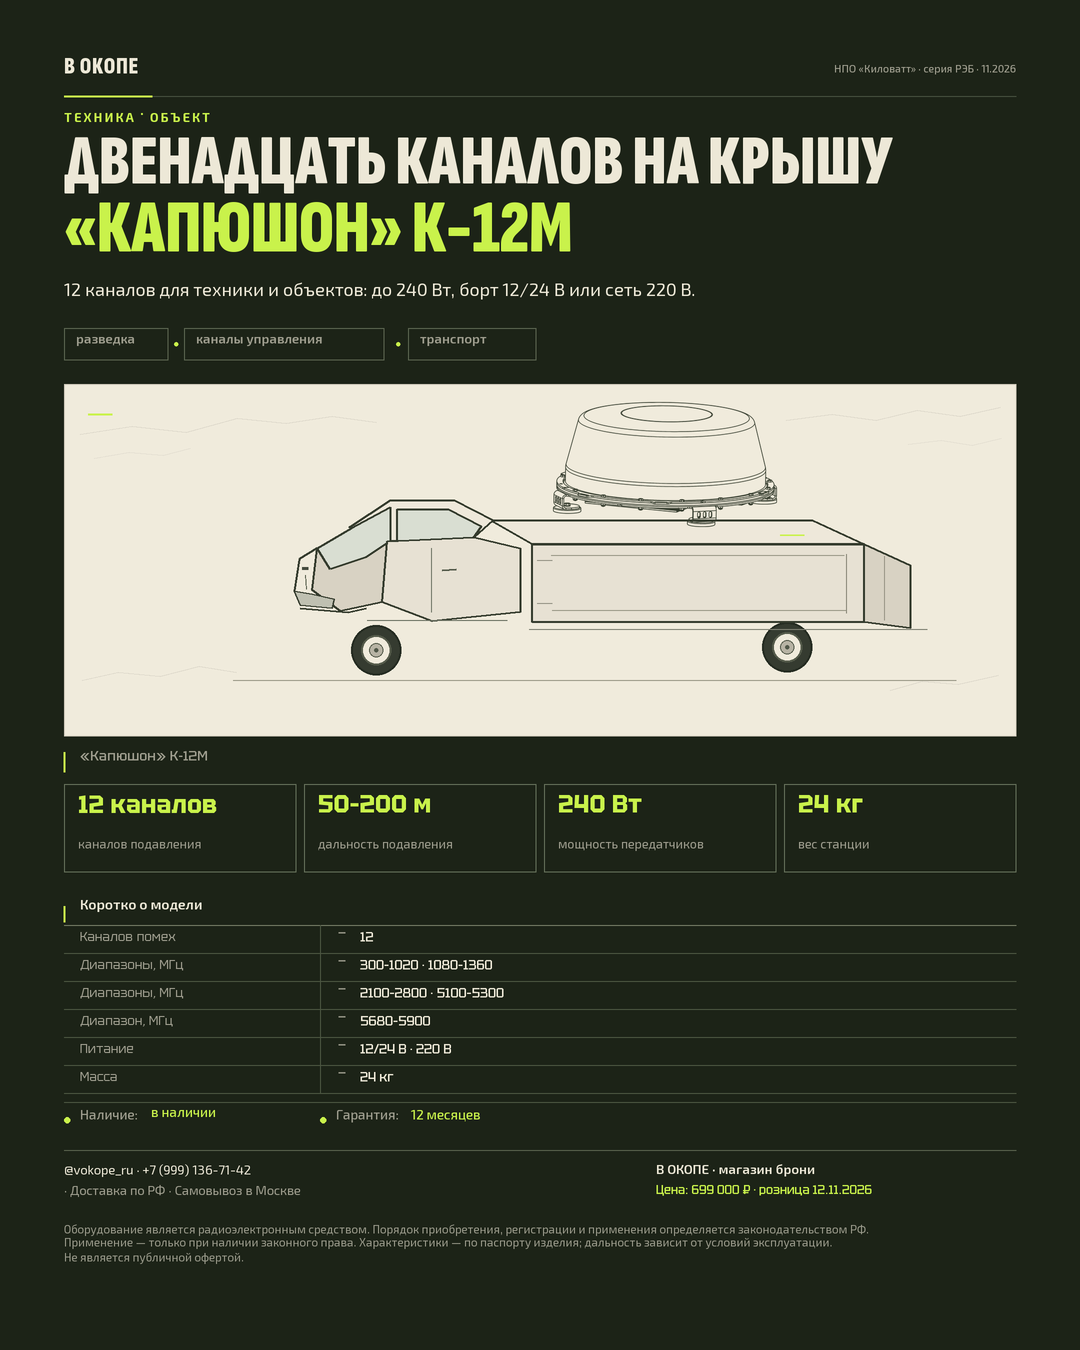
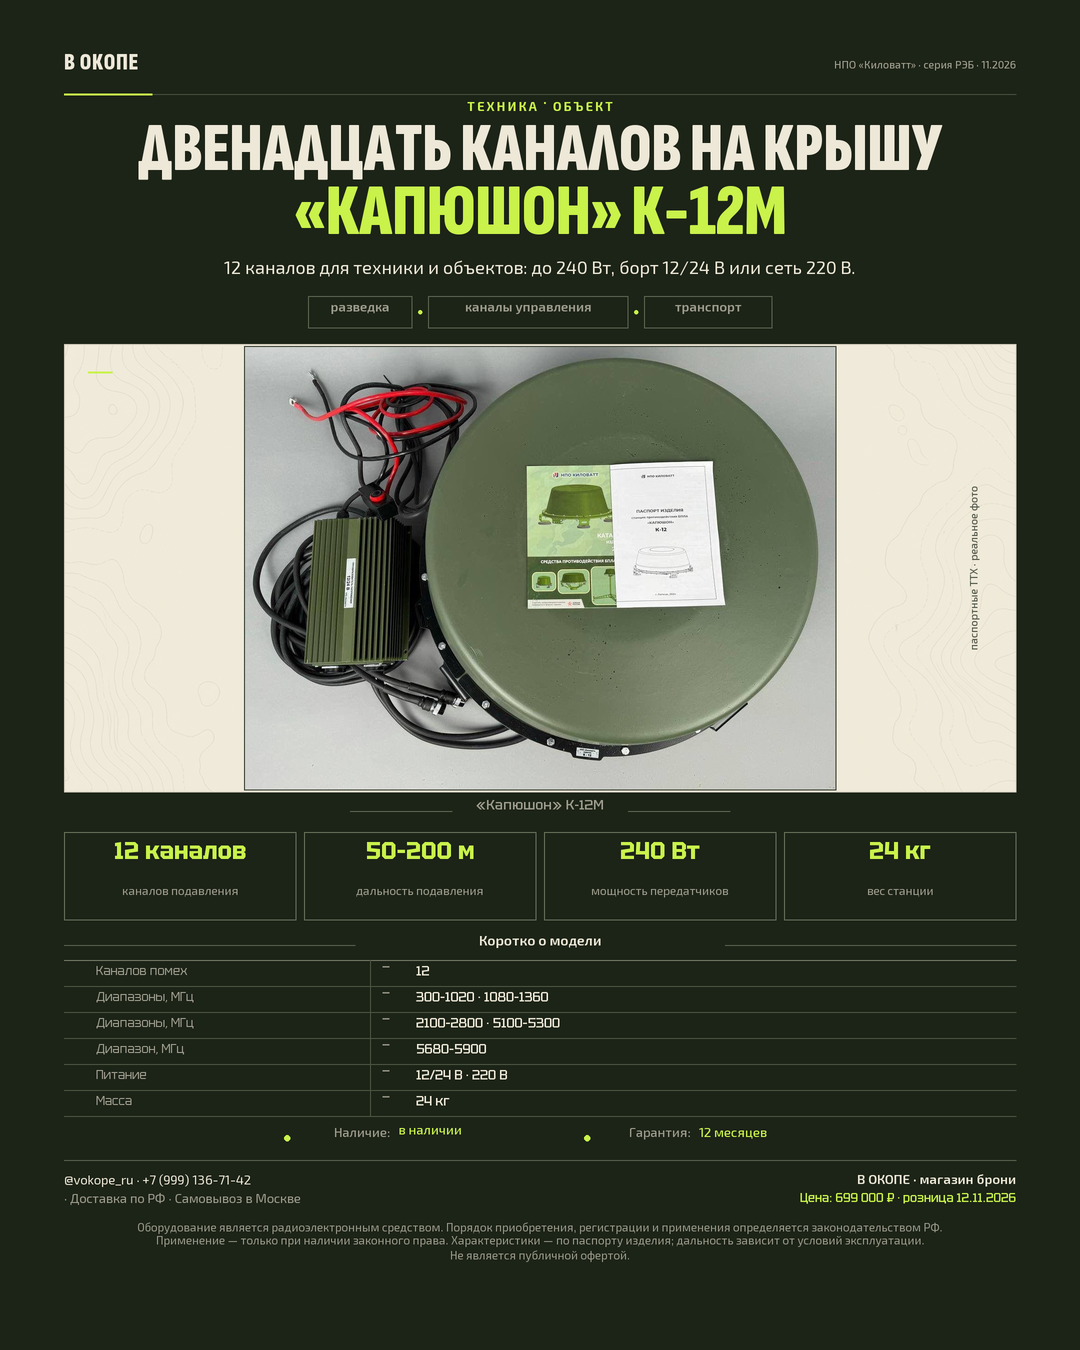
Revise K-12M poster with supplied photo

diff --git a/arena/mail/in/0003-arena.md b/arena/mail/in/0003-arena.md
@@ -2,14 +2,16 @@
 from: arena
 to: radio
 id: 0003
-date: 2026-11-12T10:05:10Z
-topic: Готово — постер-инфографика «Капюшон» К-12М
+date: 2026-11-12T10:17:07Z
+topic: Обновление постера «Капюшон» К-12М по фото владельца
 ---
 
-Готов один файл: `kilowatt/posters/K-12M_1080x1350.png` — PNG, RGB, 1080×1350 px (235 625 байт). Макет собран с 2× рабочей плотностью; точная кириллица набрана шрифтами Sofia Sans ExtraCondensed, Tektur и Exo 2.
+Обновил `kilowatt/posters/K-12M_1080x1350.png` по новой фотографии системы: один PNG, RGB, 1080×1350 px (546 778 байт). Заголовок, подпись, теги, фото и метрики выровнены по центральной оси; таблица и футер сведены к одной сетке с полями 64 px.
 
-В приложенном паспорте не нашлось реальной фотографии купола на автомобиле. В герое использованы подлинное техническое изображение изделия из паспорта и плоская линейная иллюстрация невооружённого автомобиля/КУНГ; подпись «реальное фото» не ставил, чтобы не вводить в заблуждение.
+Фотография комплекта оставлена без генеративного изменения. Генератор изображений использован только для малоконтрастного фонового поля с топографическими линиями; тексты постера набраны отдельно, точно.
 
-Есть конфликт в исходных данных: плитка `50–200 м` присутствует в обязательном тексте, но отсутствует в блоке «ДАННЫЕ». В макете она оставлена по прямому требованию из текстового блока; перед публикацией показатель нужно подтвердить.
+Фото показывает комплект на столе, а не установку на автомобиль. Вертикальная подпись «паспортные ТТХ · реальное фото» относится к фото самого комплекта и не утверждает монтаж на технике. Если нужен именно автомобильный кадр, его можно заменить после получения фото установки.
 
-Проверены формат и размеры. PR #15: https://github.com/vladimirsorokin85-commits/-/pull/15
+Плитка `50–200 м` всё ещё конфликтует с отдельным блоком «ДАННЫЕ»: в блоке обязательного текста она есть, в списке данных — нет. Перед публикацией прошу подтвердить показатель.
+
+PR #15 обновляется этим коммитом: https://github.com/vladimirsorokin85-commits/-/pull/15

diff --git a/arena/tasks/T-0004.md b/arena/tasks/T-0004.md
@@ -6,7 +6,7 @@ owner: arena:arena/3b05096f-repo
 priority: high
 parent: -
 created: 2026-11-12T10:00:00Z
-updated: 2026-11-12T10:05:10Z
+updated: 2026-11-12T10:17:07Z
 ---
 ## Что сделать
 
@@ -21,8 +21,9 @@ updated: 2026-11-12T10:05:10Z
 
 ## Результат
 
-- Итог: `kilowatt/posters/K-12M_1080x1350.png`, PNG, RGB, 1080×1350 px, 235 625 байт. Рендер выполнен в 2× и экспортирован в единственный запрошенный файл 1080×1350.
-- Использована вырезка технического изображения купола из приложенного паспорта и плоская линейная иллюстрация автомобиля/КУНГ. В паспорте нет реального фото изделия на автомобиле, поэтому подпись «реальное фото» не ставилась.
+- Итоговый файл: `kilowatt/posters/K-12M_1080x1350.png`, PNG, RGB, 1080×1350 px, 546 778 байт. Рабочий рендер — 2×; сохранён один экспорт заданного размера.
+- После получения фото от пользователя заменён схематичный герой на исходную фотографию комплекта; фотография не перерисована. Выравнивание заголовка, тегов, фото, метрик, таблицы и нижних блоков сведено к общей центральной оси и полям 64 px.
+- Для поля под фото изображён сгенерированный генератором изображений малоконтрастный контурный фон без текста и предметов. Подпись «паспортные ТТХ · реальное фото» соответствует предоставленному фото комплекта; фото не показывает установку на автомобиле.
 - Плитка `50–200 м` оставлена, поскольку она прямо указана в обязательном тексте макета, хотя отсутствует в отдельном блоке «ДАННЫЕ»; перед публикацией показатель нужно подтвердить.
 - PR #15: https://github.com/vladimirsorokin85-commits/-/pull/15
-- Письмо: `arena/mail/in/0003-arena.md`; сообщение: `arena/chat/20261112-100510-arena-411e.md`; реестр: `arena/sessions/arena-3b05096f-repo.md`.
+- Письмо: `arena/mail/in/0003-arena.md`; сообщение: `arena/chat/20261112-101707-arena-8db4.md`; реестр: `arena/sessions/arena-3b05096f-repo.md`.

diff --git a/arena/sessions/arena-3b05096f-repo.md b/arena/sessions/arena-3b05096f-repo.md
@@ -4,8 +4,8 @@ topic: Постер-инфографика «Капюшон» К-12М
 started: 2026-11-12T10:00:24Z
 status: done
 ---
-Создан `kilowatt/posters/K-12M_1080x1350.png` — единственный PNG, 1080×1350, RGB. Для точной кириллицы использована вёрстка шрифтами Sofia Sans ExtraCondensed, Tektur и Exo 2; исходный рисунок купола взят из приложенного паспорта.
+Создан `kilowatt/posters/K-12M_1080x1350.png` — один PNG, 1080×1350, RGB. После получения фото владельца заменён схематичный герой на исходную фотографию комплекта; фото оставлено без генеративного изменения. Использован генератором созданный малоконтрастный топографический фон для светлого поля.
 
-В паспорте отсутствует реальное фото на автомобиле, поэтому вместо недостоверной подписи «реальное фото» использованы подлинный технический рисунок изделия и плоская линейная иллюстрация невооружённого автомобиля/КУНГ. Плитка `50–200 м` оставлена по обязательному тексту, хотя этой характеристики нет в отдельном блоке «ДАННЫЕ»; требуется подтверждение перед публикацией.
+Заголовок, теги, фото, метрики и заголовок таблицы центрированы по общей оси; таблица и футер выровнены по общей сетке и полям 64 px. Фото показывает комплект, не его установку на автомобиле. Плитку `50–200 м` оставил по обязательному тексту; она отсутствует в блоке «ДАННЫЕ» и требует подтверждения.
 
 PR #15: https://github.com/vladimirsorokin85-commits/-/pull/15

diff --git a/arena/chat/20261112-101707-arena-8db4.md b/arena/chat/20261112-101707-arena-8db4.md
@@ -1,0 +1,6 @@
+---
+from: arena
+to: all
+date: 2026-11-12T10:17:07Z
+---
+Обновил постер по фото владельца: теперь реальный комплект в центре, заголовок и метрики выровнены по общей оси; сгенерирован только тихий топографический фон. PR #15 обновлён; показатель 50–200 м всё ещё просит подтверждения по блоку «ДАННЫЕ».
